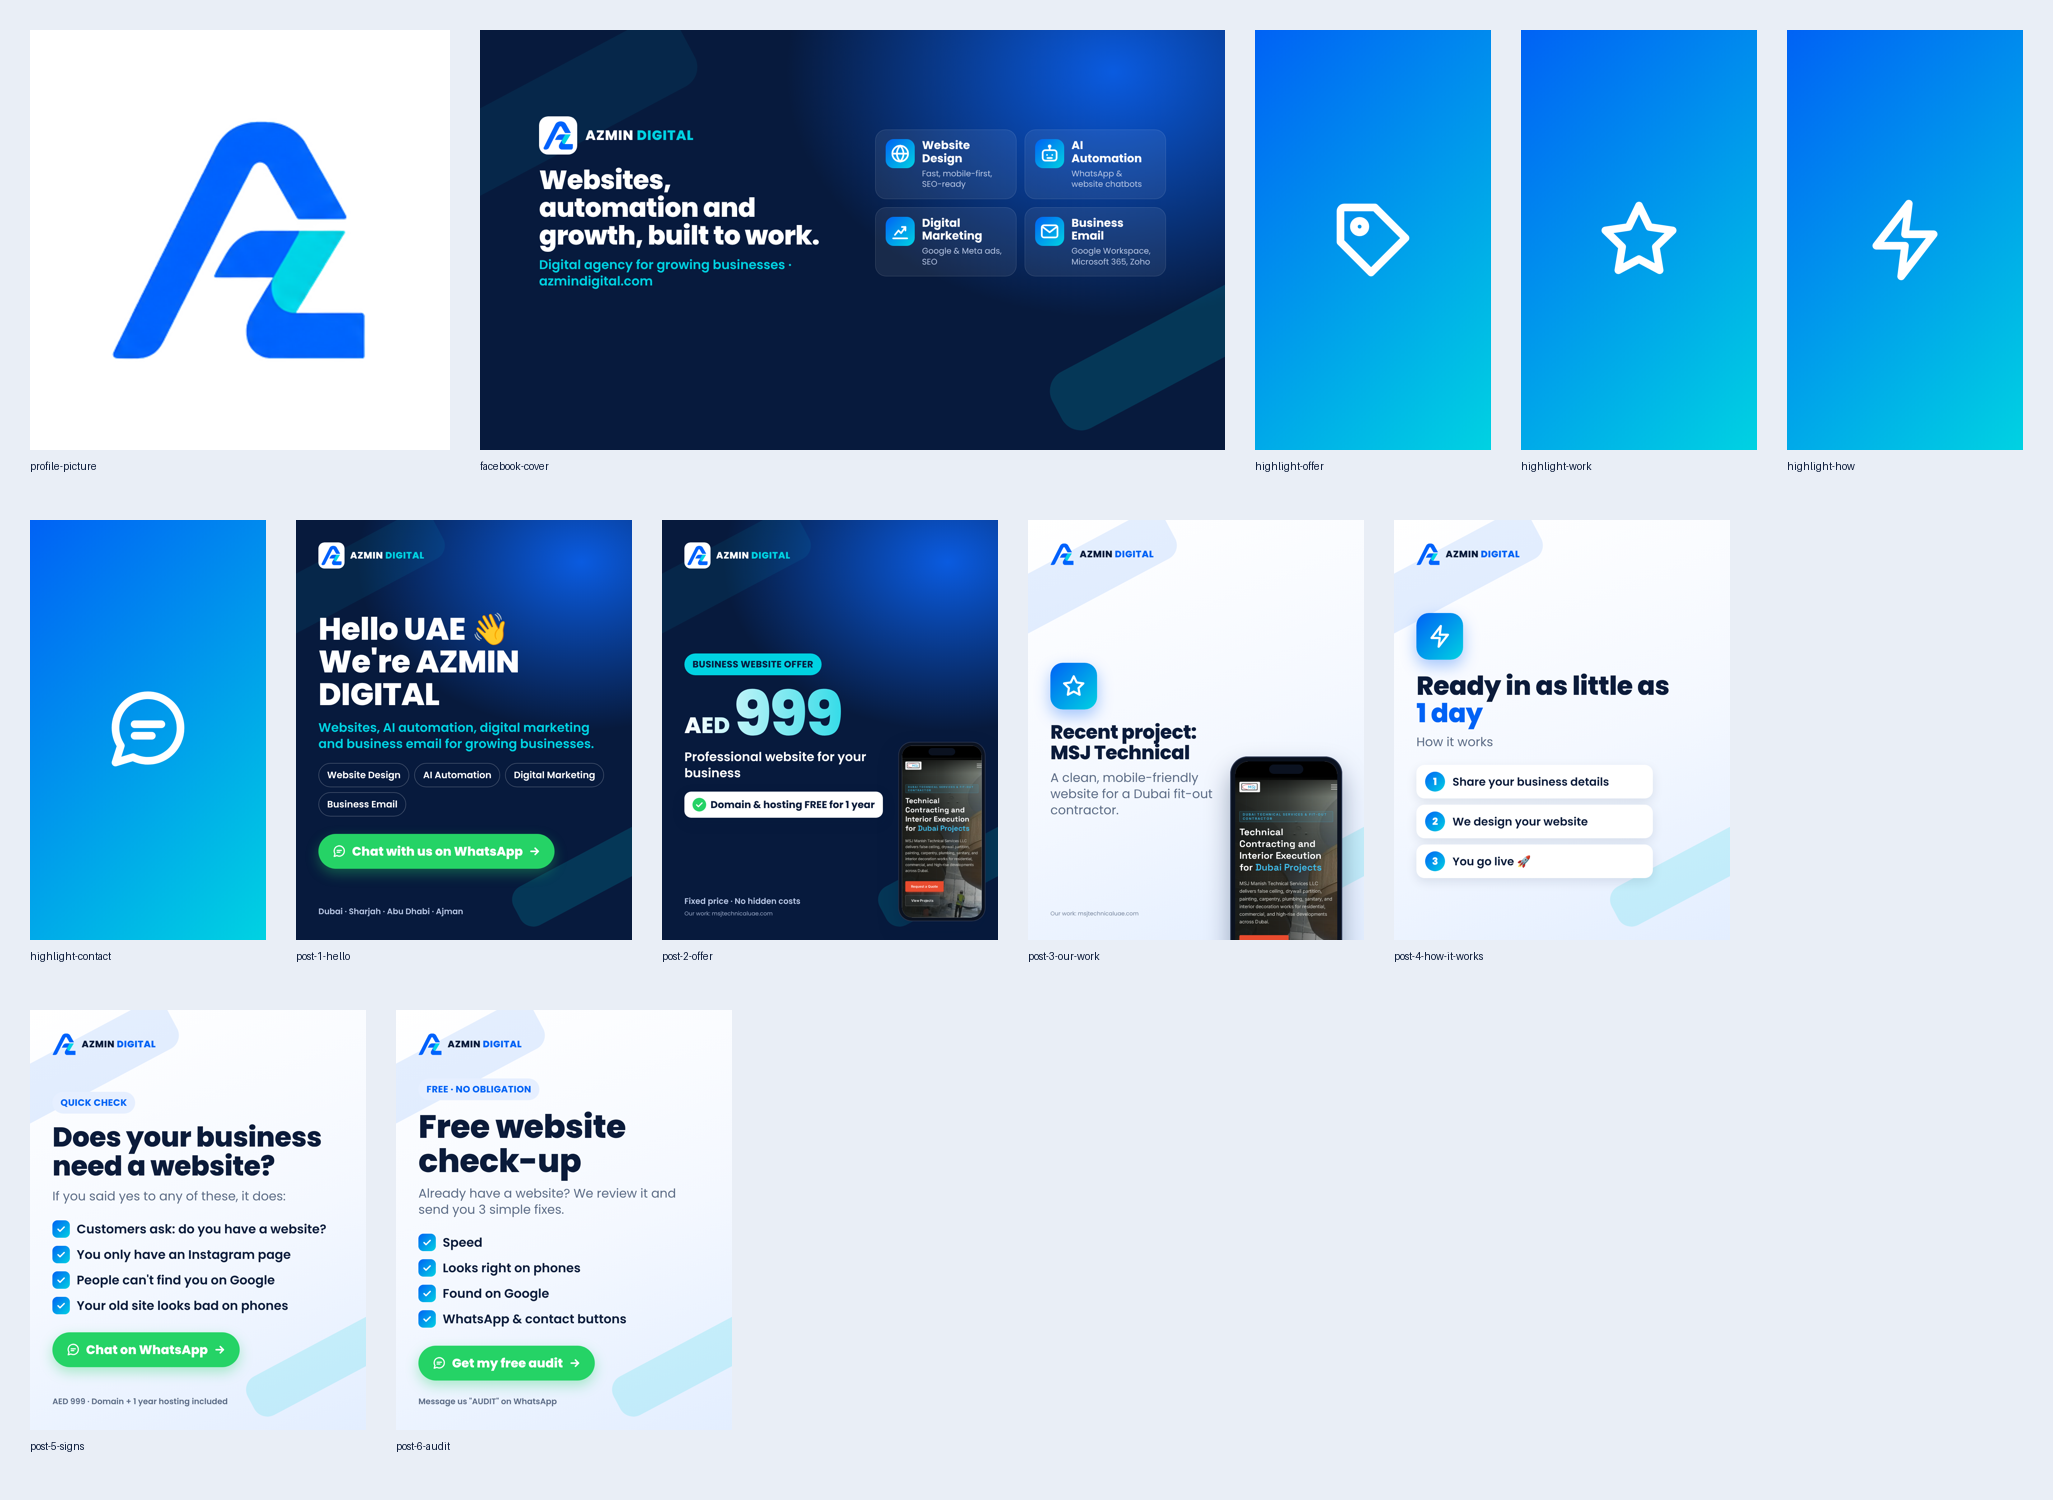
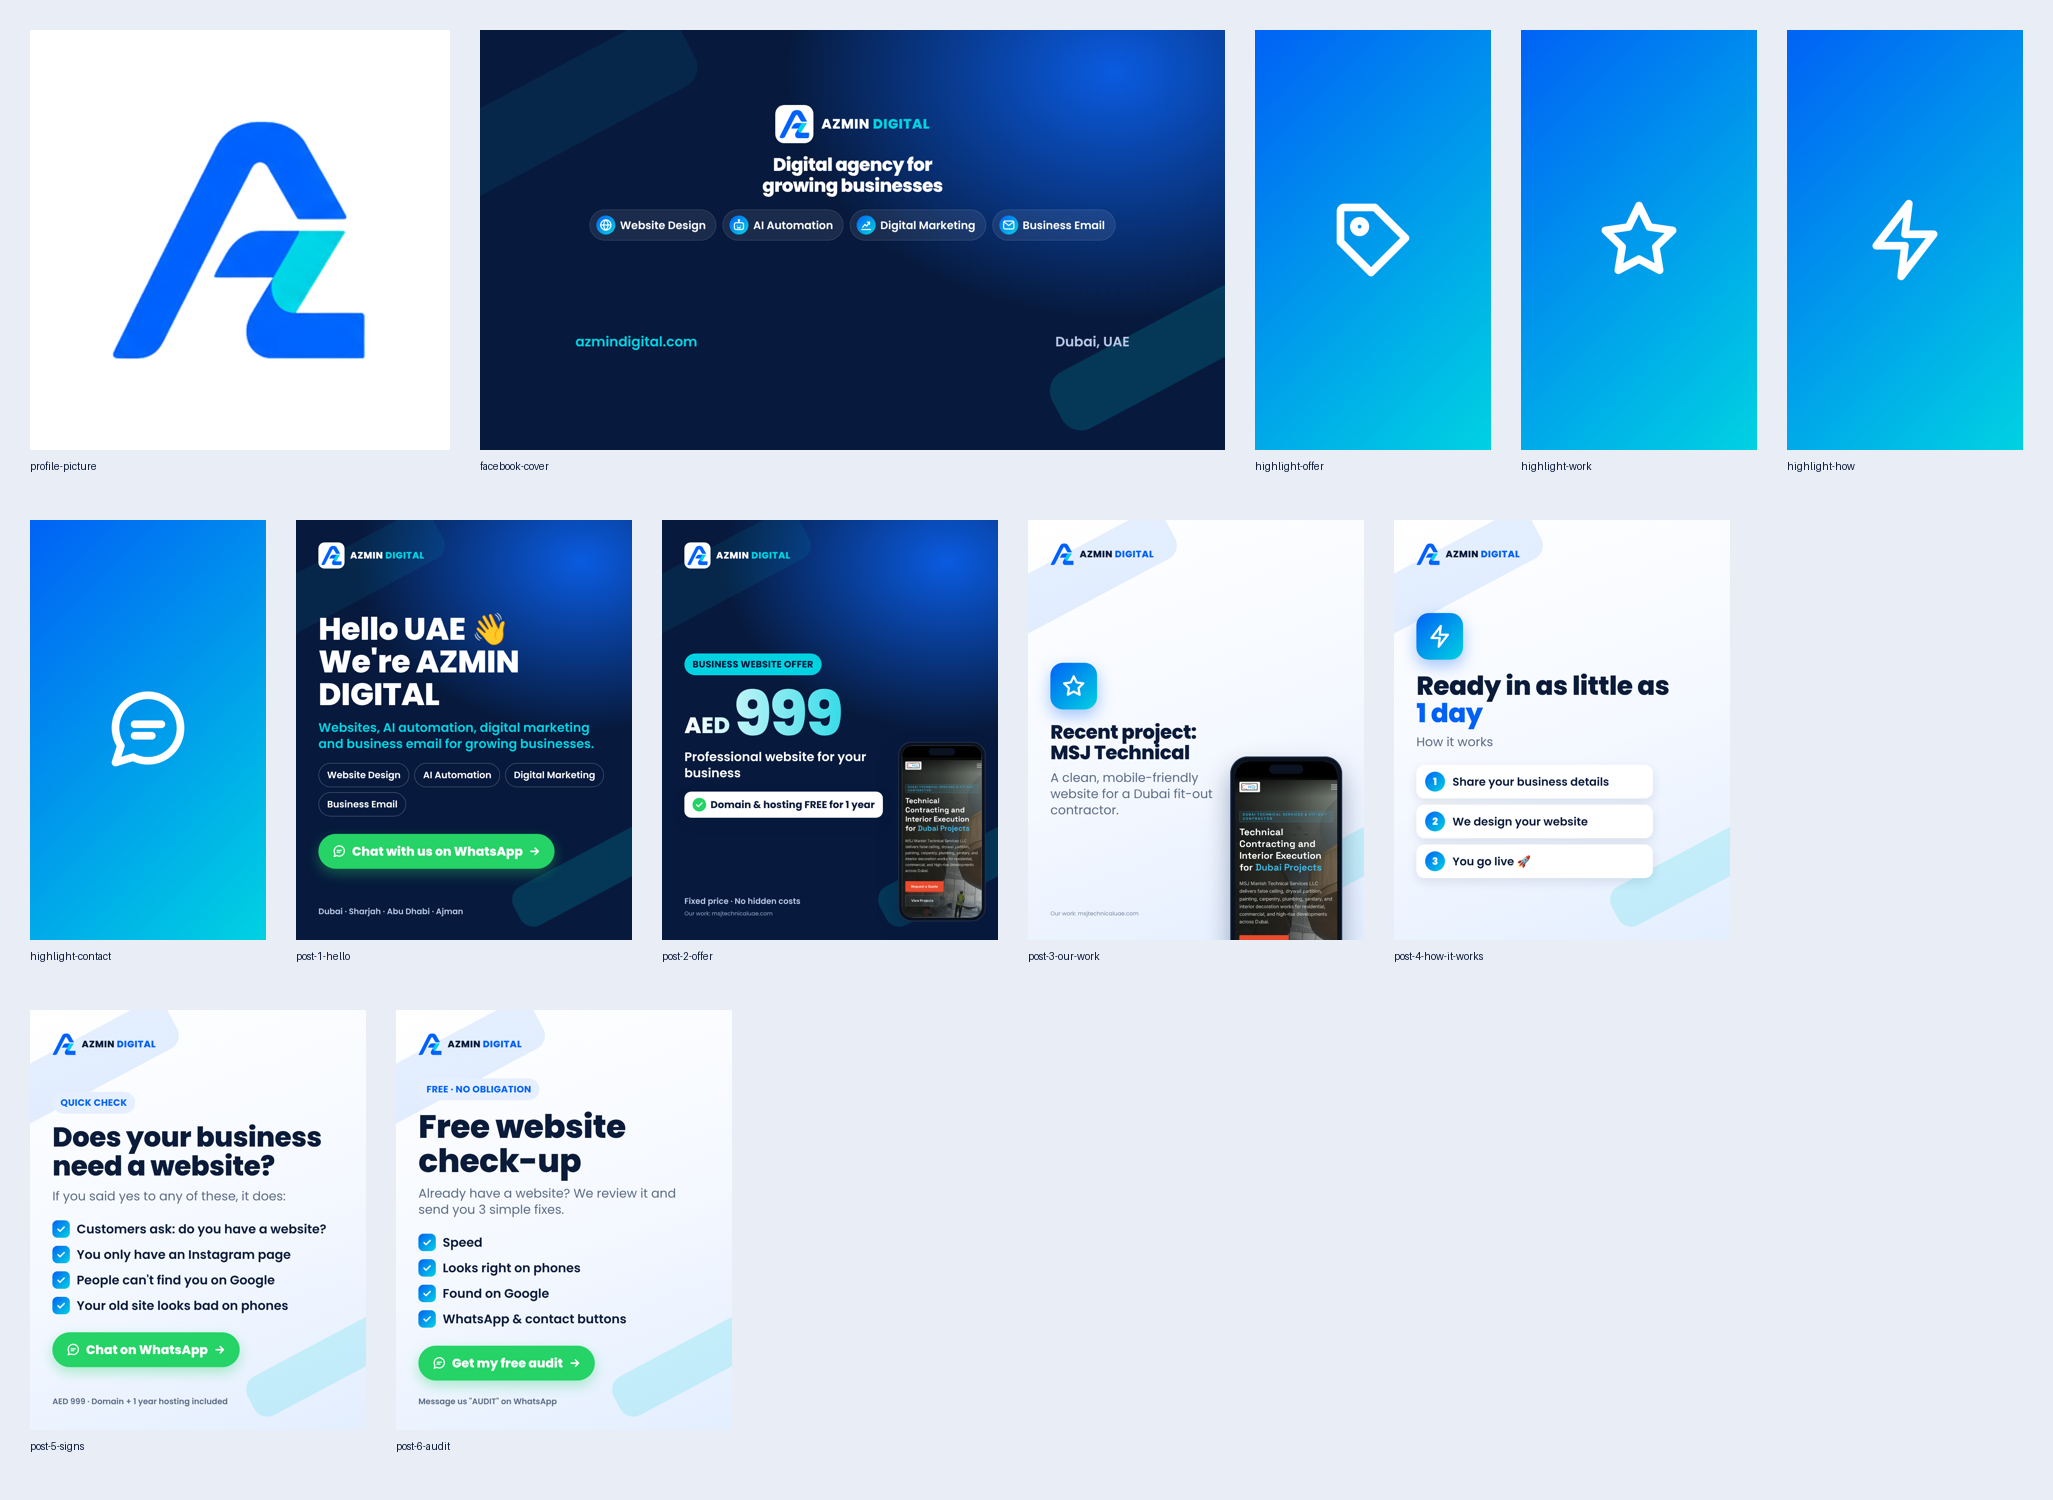
Centre Facebook cover layout for the phone app
The app crops ~8% off each side and overlays buttons in the top corners and
the profile picture at the bottom centre. New cover_center template keeps the
logo, a short headline and the four service chips in the centre band, with
the website and city in the lower corners, clear of all overlays.

Claude-Session: https://claude.ai/code/session_01BGEC4PAKqVt3sqxxJW15Vo

Changed region(s): [[0.2494, 0.0613, 0.5611, 0.2453]]

diff --git a/agent/creatives/style.css b/agent/creatives/style.css
@@ -145,3 +145,8 @@ h1 { font-weight: 800; line-height: 1.05; letter-spacing: -1px; }
   background: linear-gradient(135deg, var(--blue), var(--cyan)); }
 .svc-t { font-weight: 700; font-size: 25px; line-height: 1.15; }
 .svc-d { font-size: 18px; color: #B9C8E6; margin-top: 6px; line-height: 1.3; }
+
+.cchips { display: flex; gap: 14px; margin-top: 30px; justify-content: center; }
+.cchip { display: inline-flex; align-items: center; gap: 10px; background: rgba(255,255,255,.08); border: 1px solid rgba(255,255,255,.18);
+  border-radius: 999px; padding: 12px 22px 12px 14px; font-size: 24px; font-weight: 600; }
+.cchip svg { background: linear-gradient(135deg, var(--blue), var(--cyan)); border-radius: 50%; padding: 6px; box-sizing: content-box; }

diff --git a/agent/creatives/render.py b/agent/creatives/render.py
@@ -268,13 +268,29 @@ def t_cover_agency(c: dict, lang: str, size: str) -> str:
 </div>"""
 
 
+def t_cover_center(c: dict, lang: str, size: str) -> str:
+    """Facebook cover (1640x924) laid out for the phone app: everything centred, corners left empty
+    (Facebook's buttons sit there) and the bottom centre left empty (profile picture)."""
+    chips = "".join(f'<span class="cchip">{icon(sv["icon"], 30)}{esc(sv["title"])}</span>' for sv in c["services"])
+    return f"""
+<div class="canvas dark" style="padding:0; align-items:center; text-align:center"><div class="shape s1"></div><div class="shape s2"></div>
+  <div style="position:absolute; top:165px; left:0; right:0; display:flex; flex-direction:column; align-items:center; z-index:2">
+    <div style="display:flex; justify-content:center">{brand(True)}</div>
+    <h1 style="font-size:40px; margin-top:24px; line-height:1.15">{esc(c['title'])}</h1>
+    <div class="cchips">{chips}</div>
+  </div>
+  <div class="footnote" style="position:absolute; left:210px; bottom:215px; color:var(--cyan); font-size:30px; z-index:2">{esc(c['left'])}</div>
+  <div class="footnote" style="position:absolute; right:210px; bottom:215px; color:#B9C8E6; font-size:30px; z-index:2">{esc(c['right'])}</div>
+</div>"""
+
+
 def t_highlight(c: dict, lang: str, size: str) -> str:
     """Instagram highlight cover: one icon, centred (shown in a small circle)."""
     return f"""<div class="canvas" style="background:linear-gradient(135deg, var(--blue), var(--cyan)); display:grid; place-items:center; padding:0">
   {icon(c['icon'], 420)}</div>"""
 
 
-TEMPLATES = {"profile": t_profile, "cover": t_cover, "cover_agency": t_cover_agency, "highlight": t_highlight, "price": t_price, "feature": t_feature, "cta": t_cta, "list": t_list, "newbiz": t_newbiz, "scene": t_scene}
+TEMPLATES = {"profile": t_profile, "cover": t_cover, "cover_agency": t_cover_agency, "cover_center": t_cover_center, "highlight": t_highlight, "price": t_price, "feature": t_feature, "cta": t_cta, "list": t_list, "newbiz": t_newbiz, "scene": t_scene}
 
 
 def page(c: dict) -> str:
